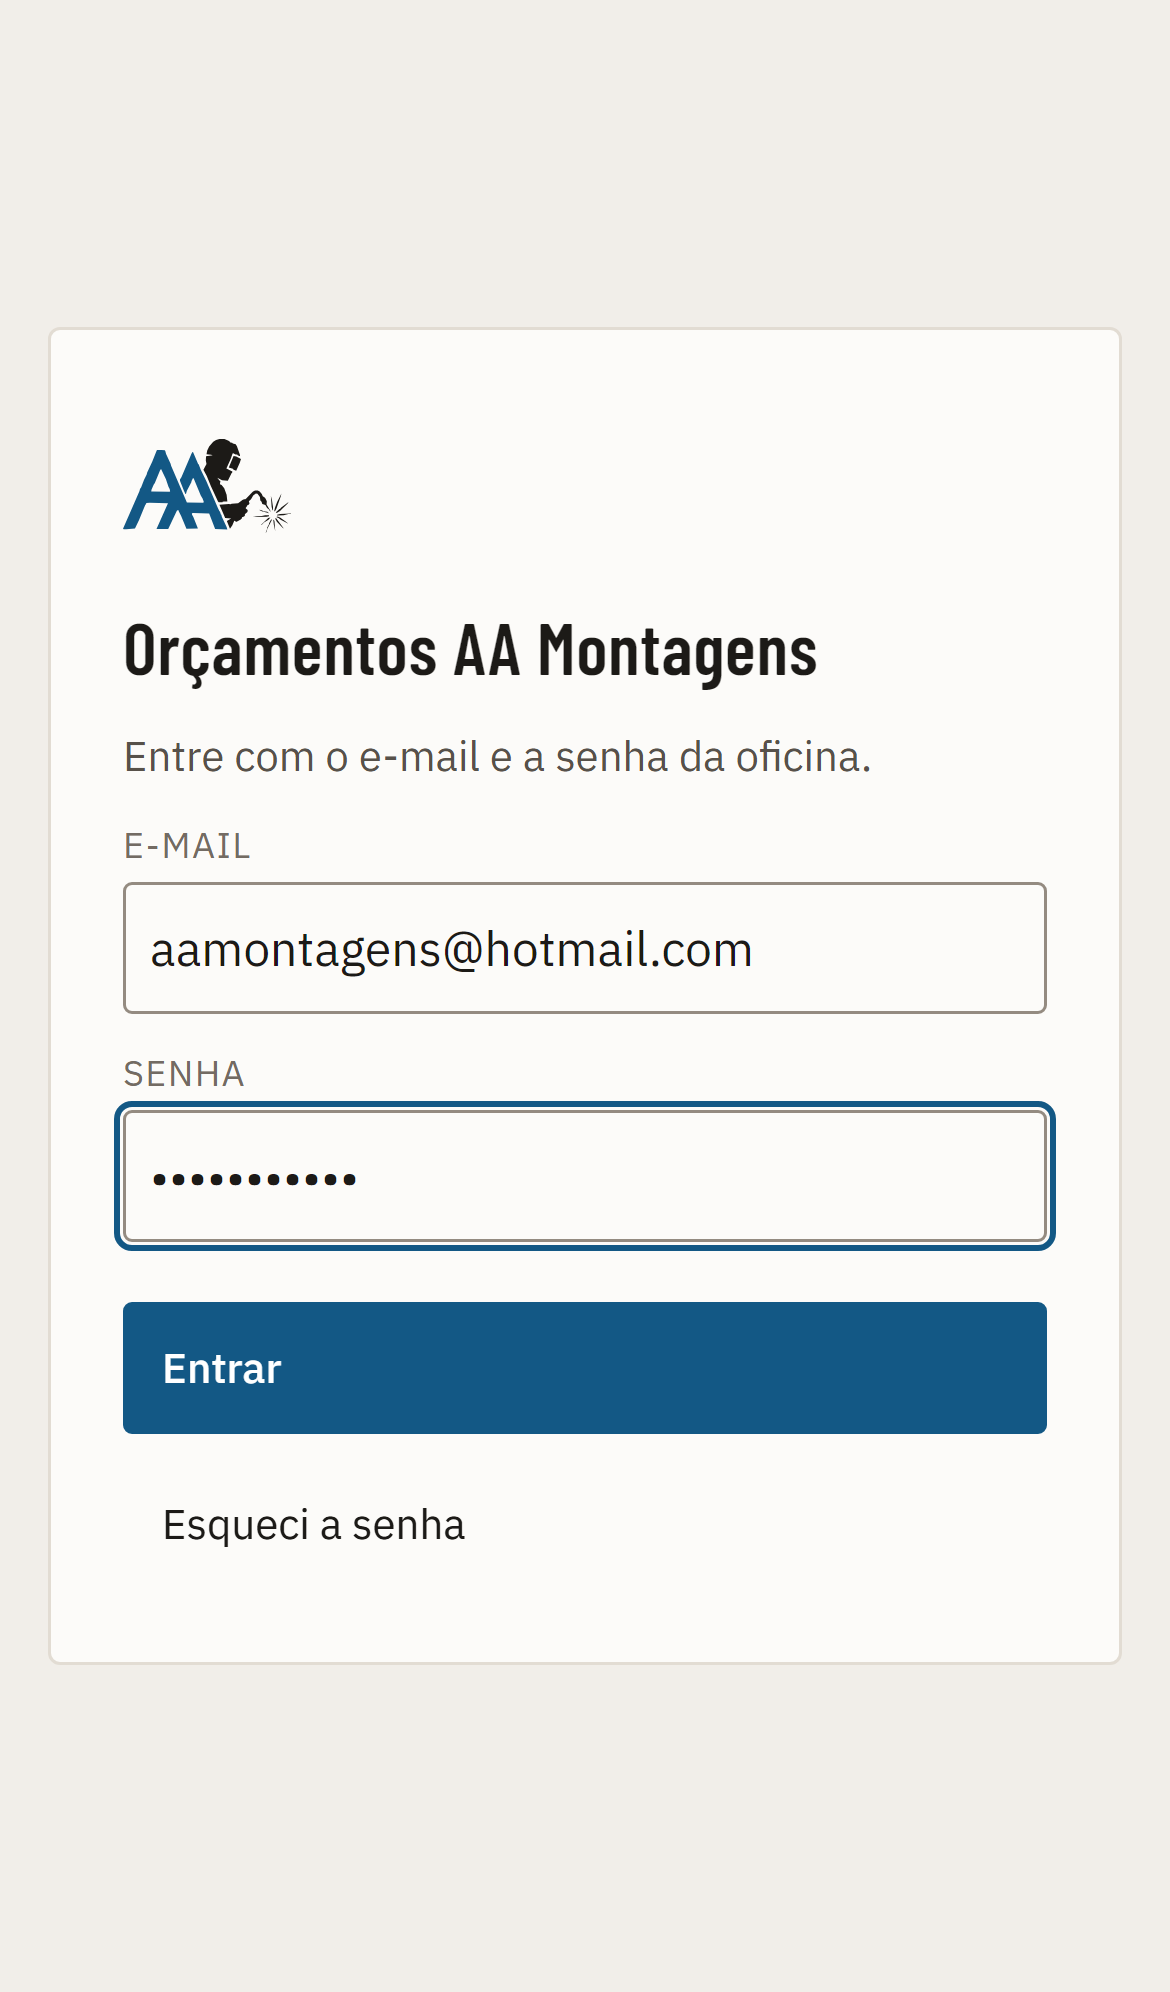
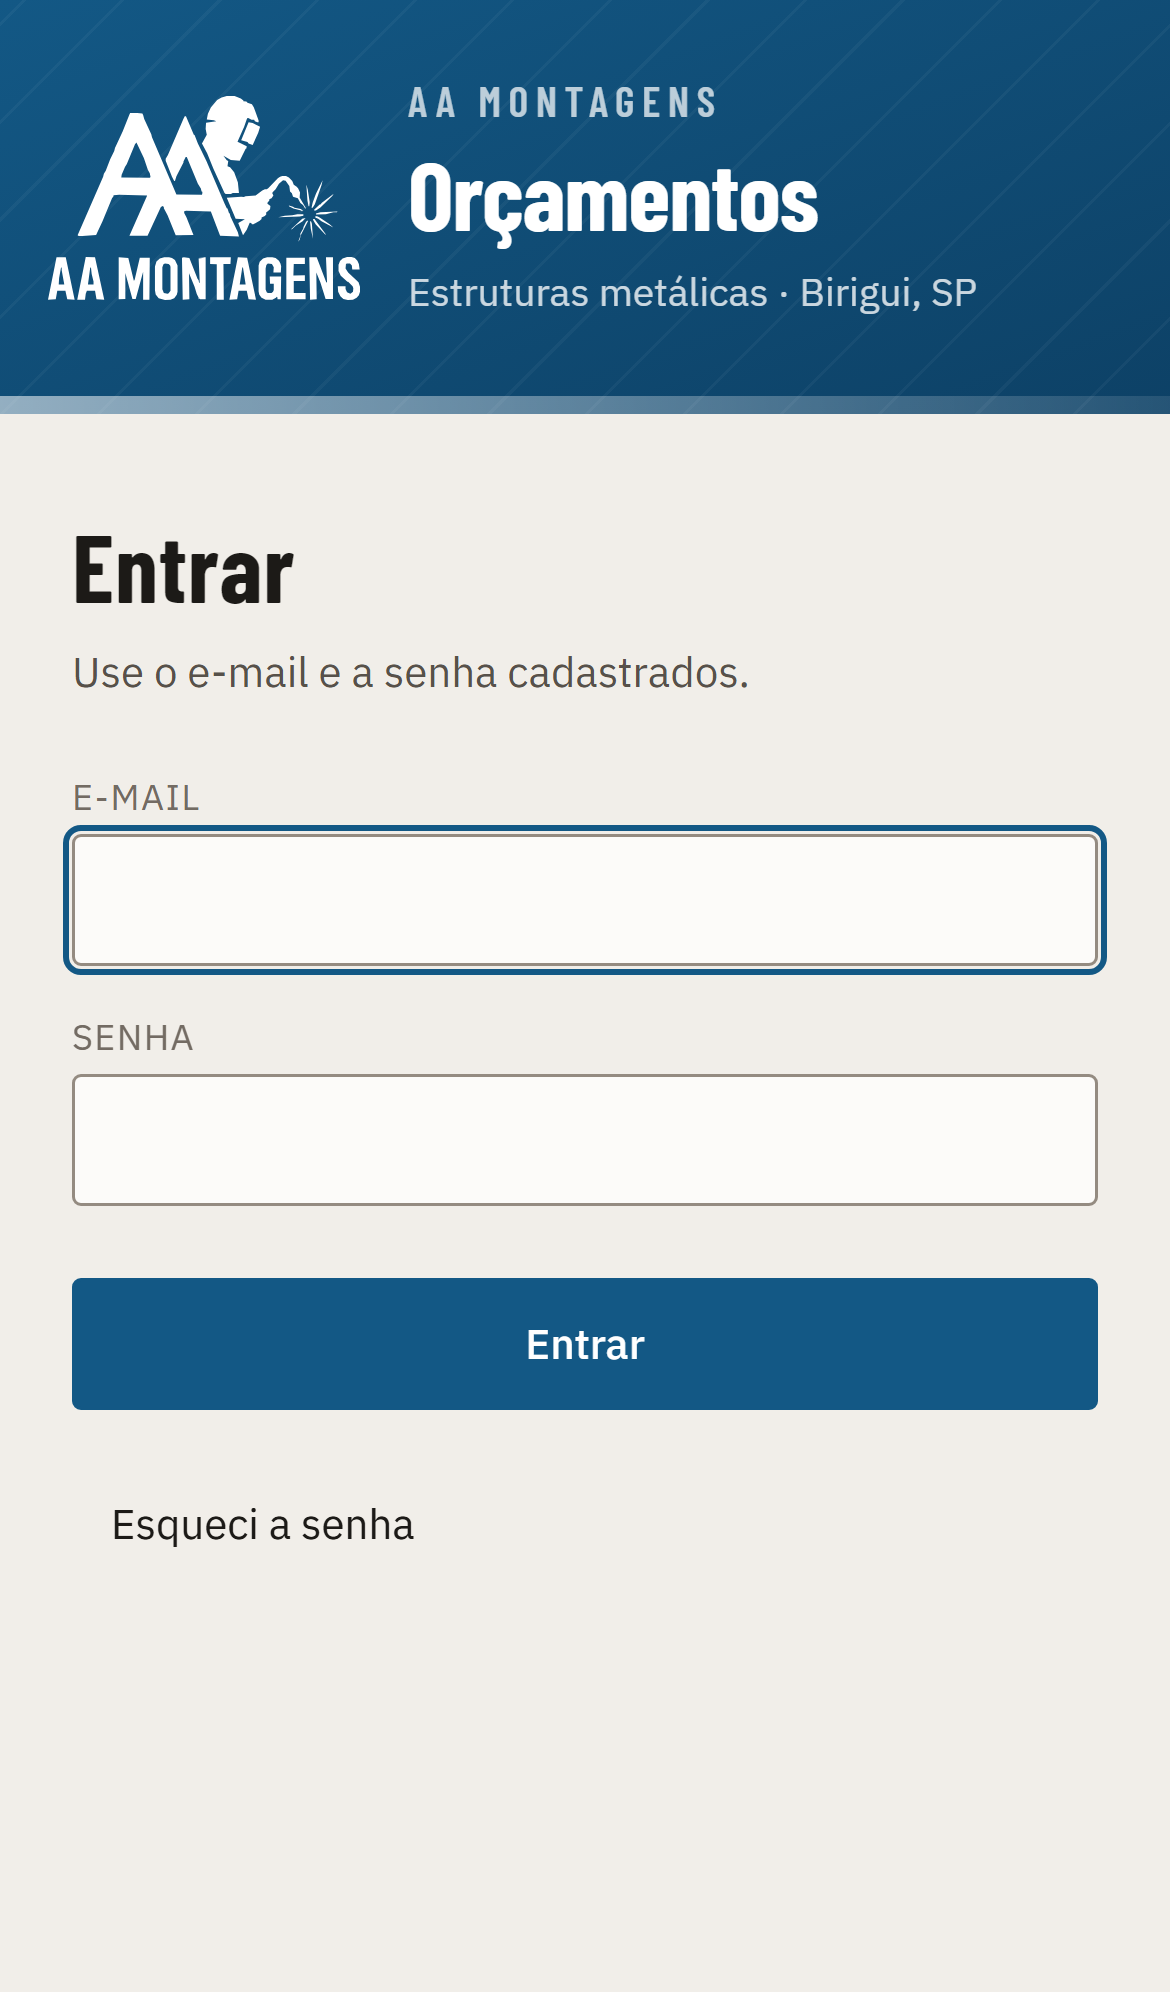
fix(vercel): rota ao recarregar; tela de login redesenhada
- `vercel.json` com o rewrite de toda rota para o index.html: a Vercel não
  lê o `_redirects`, e recarregar /orcamentos dava 404 NOT_FOUND.
- Tela de entrar em duas metades: a marca no azul da AA Montagens (logo mono
  em branco por máscara CSS, "Orçamentos" em Barlow Condensed, friso na base)
  e o formulário no papel, com campos e botão de 46 px. No celular a marca
  vira a faixa de cima. "da oficina" sai do texto.
- "Sem acesso" usa a mesma moldura (`MolduraEntrar`).
- Docs: Vercel em publicar.md (rewrite e domínios), domínio da Vercel na
  restrição da chave em nuvem.md; foto celular-entrar.png refeita.

Changed region(s): [[0.0, 0.0, 1.0, 0.3424], [0.0308, 0.3735, 0.9538, 0.7781]]

diff --git a/src/telas/entrar.css b/src/telas/entrar.css
@@ -1,32 +1,191 @@
-/* A tela de entrar: um cartão no meio, nada mais. */
+/* ---- a porta: marca no azul, formulário no papel ---- */
 .entrar {
   min-height: 100dvh;
   display: grid;
-  place-items: center;
-  padding: var(--e-4);
+  grid-template-columns: minmax(320px, 5fr) minmax(0, 7fr);
   background: var(--cor-fundo);
 }
 
-.entrar__cartao {
-  width: min(100%, 400px);
-  padding: var(--e-5);
+/* a metade da marca: azul da AA Montagens, com um trançado fino de fundo
+   (as linhas diagonais lembram chapa e treliça sem virar ilustração) */
+.entrar__marca {
+  position: relative;
+  display: flex;
+  flex-direction: column;
+  justify-content: space-between;
+  gap: var(--e-6);
+  padding: clamp(var(--e-5), 5vw, var(--e-8));
+  color: var(--cor-branco);
+  background:
+    repeating-linear-gradient(
+      -45deg,
+      rgb(255 255 255 / 0%) 0 22px,
+      rgb(255 255 255 / 4%) 22px 23px
+    ),
+    linear-gradient(160deg, var(--cor-acao) 0%, var(--cor-acao-forte) 100%);
+  overflow: hidden;
+}
+
+/* uma faixa clara na base, como um friso de aço */
+.entrar__marca::after {
+  content: '';
+  position: absolute;
+  left: 0;
+  right: 0;
+  bottom: 0;
+  height: 6px;
+  background: linear-gradient(90deg, rgb(255 255 255 / 55%), rgb(255 255 255 / 10%));
+}
+
+.entrar__logo {
+  width: min(240px, 60%);
+  aspect-ratio: 1000 / 651.2;
+  background: var(--cor-branco);
+  mask: var(--logo) no-repeat center / contain;
+  -webkit-mask: var(--logo) no-repeat center / contain;
+}
+
+.entrar__marca-texto {
+  display: grid;
+  gap: var(--e-1);
+}
+
+.entrar__sobrelinha {
+  margin: 0;
+  font-family: var(--fonte-display);
+  font-weight: 600;
+  font-size: var(--dsp-xs);
+  letter-spacing: 0.18em;
+  text-transform: uppercase;
+  color: rgb(255 255 255 / 72%);
+}
+
+.entrar__titulo-marca {
+  margin: 0;
+  font-family: var(--fonte-display);
+  font-weight: 700;
+  font-size: clamp(40px, 6vw, 64px);
+  line-height: 1;
+  letter-spacing: -0.01em;
+}
+
+.entrar__descricao {
+  margin: var(--e-2) 0 0;
+  font-size: var(--txt-md);
+  color: rgb(255 255 255 / 78%);
+}
+
+.entrar__rodape {
+  margin: 0;
+  font-family: var(--fonte-display);
+  font-size: var(--dsp-xs);
+  letter-spacing: 0.12em;
+  text-transform: uppercase;
+  color: rgb(255 255 255 / 55%);
+}
+
+/* a metade do formulário */
+.entrar__painel {
+  display: grid;
+  place-items: center;
+  padding: clamp(var(--e-5), 6vw, var(--e-8));
+}
+
+.entrar__form {
+  width: min(100%, 380px);
+  display: grid;
+  gap: var(--e-4);
+}
+
+.entrar__titulo {
+  margin: 0;
+  font-family: var(--fonte-display);
+  font-weight: 700;
+  font-size: var(--dsp-lg);
+  line-height: var(--lh-dsp-lg);
+}
+
+.entrar__nota {
+  margin: calc(-1 * var(--e-2)) 0 var(--e-2);
+  color: var(--cor-tinta-media);
+}
+
+/* campos mais altos que os da grade: aqui é dedo, não teclado em série */
+.entrar__campo {
+  height: 46px;
+  padding: 0 var(--e-3);
+  font-size: var(--txt-lg);
+  background: var(--cor-papel);
+}
+
+.entrar__botao {
+  height: 46px;
+  margin-top: var(--e-2);
+  font-size: var(--txt-lg);
+  justify-content: center;
+}
+
+.entrar__form .entrar__esqueci {
+  justify-self: start;
+  padding: 0;
+  color: var(--cor-acao);
+}
+
+/* sem acesso: o mesmo painel, com o aviso no lugar do formulário */
+.entrar__aviso {
+  width: min(100%, 420px);
   display: grid;
   gap: var(--e-3);
 }
 
-.entrar__logo {
-  width: 56px;
-  height: 56px;
-}
-
-.entrar__nota {
-  color: var(--cor-tinta-media);
+.entrar__aviso h1 {
   margin: 0;
+  font-family: var(--fonte-display);
+  font-weight: 700;
+  font-size: var(--dsp-lg);
+  line-height: var(--lh-dsp-lg);
 }
 
-.entrar__acoes {
-  display: flex;
-  flex-direction: column;
-  gap: var(--e-2);
-  margin-top: var(--e-2);
+.entrar__aviso p {
+  margin: 0;
+  color: var(--cor-tinta-media);
+}
+
+/* ---- celular: a marca vira a faixa de cima ---- */
+@media (max-width: 720px) {
+  .entrar {
+    grid-template-columns: 1fr;
+    grid-template-rows: auto 1fr;
+  }
+
+  .entrar__marca {
+    flex-direction: row;
+    align-items: center;
+    justify-content: flex-start;
+    gap: var(--e-4);
+    padding: var(--e-5) var(--e-4) calc(var(--e-5) + 6px);
+  }
+
+  .entrar__logo {
+    width: 104px;
+    flex: 0 0 auto;
+  }
+
+  .entrar__titulo-marca {
+    font-size: var(--dsp-lg);
+  }
+
+  .entrar__descricao {
+    margin-top: var(--e-1);
+    font-size: var(--txt-sm);
+  }
+
+  .entrar__rodape {
+    display: none;
+  }
+
+  .entrar__painel {
+    align-items: start;
+    padding-top: var(--e-6);
+  }
 }

diff --git a/src/telas/Entrar.tsx b/src/telas/Entrar.tsx
@@ -3,11 +3,36 @@
  *
  * E-mail + senha (spec §2): funciona no navegador e no app instalado na tela
  * de inicio do celular, onde login por janela/redirecionamento falha.
+ *
+ * Duas metades: a marca, no azul da AA Montagens, e o formulario, no papel.
+ * No celular a marca vira a faixa de cima. `MolduraEntrar` e compartilhada
+ * com a tela de "sem acesso", para as duas serem a mesma porta.
  */
-import { useState } from 'react';
+import { useState, type ReactNode } from 'react';
 import { entrar, mensagemDoErro, pedirNovaSenha } from '../dados/sessao';
 import './formulario.css';
 import './entrar.css';
+
+export function MolduraEntrar({ children }: { children: ReactNode }) {
+  return (
+    <div className="entrar">
+      <aside className="entrar__marca" aria-hidden="true">
+        {/* mascara CSS, e nao <img>: a logo mono usa currentColor, que <img> nao herda */}
+        <div
+          className="entrar__logo"
+          style={{ ['--logo' as string]: `url(${import.meta.env.BASE_URL}logo-mono.svg)` }}
+        />
+        <div className="entrar__marca-texto">
+          <p className="entrar__sobrelinha">AA Montagens</p>
+          <p className="entrar__titulo-marca">Orçamentos</p>
+          <p className="entrar__descricao">Estruturas metálicas · Birigui, SP</p>
+        </div>
+        <p className="entrar__rodape">Sistema interno · acesso restrito</p>
+      </aside>
+      <main className="entrar__painel">{children}</main>
+    </div>
+  );
+}
 
 export function Entrar() {
   const [email, setEmail] = useState('');
@@ -48,22 +73,21 @@ export function Entrar() {
   }
 
   return (
-    <div className="entrar">
+    <MolduraEntrar>
       <form
-        className="entrar__cartao painel"
+        className="entrar__form"
         onSubmit={(ev) => {
           ev.preventDefault();
           void enviar();
         }}
       >
-        <img className="entrar__logo" src={`${import.meta.env.BASE_URL}logo-simbolo.svg`} alt="" />
-        <h1>Orçamentos AA Montagens</h1>
-        <p className="entrar__nota">Entre com o e-mail e a senha da oficina.</p>
+        <h1 className="entrar__titulo">Entrar</h1>
+        <p className="entrar__nota">Use o e-mail e a senha cadastrados.</p>
 
         <label className="campo-envolve">
           <span className="rotulo">E-mail</span>
           <input
-            className="campo"
+            className="campo entrar__campo"
             type="email"
             autoComplete="username"
             inputMode="email"
@@ -75,7 +99,7 @@ export function Entrar() {
         <label className="campo-envolve">
           <span className="rotulo">Senha</span>
           <input
-            className="campo"
+            className="campo entrar__campo"
             type="password"
             autoComplete="current-password"
             value={senha}
@@ -94,20 +118,18 @@ export function Entrar() {
           </p>
         )}
 
-        <div className="entrar__acoes">
-          <button type="submit" className="botao botao--primario" disabled={ocupado}>
-            {ocupado ? 'Entrando…' : 'Entrar'}
-          </button>
-          <button
-            type="button"
-            className="botao botao--texto"
-            disabled={ocupado}
-            onClick={() => void esqueci()}
-          >
-            Esqueci a senha
-          </button>
-        </div>
+        <button type="submit" className="botao botao--primario entrar__botao" disabled={ocupado}>
+          {ocupado ? 'Entrando…' : 'Entrar'}
+        </button>
+        <button
+          type="button"
+          className="botao botao--texto entrar__esqueci"
+          disabled={ocupado}
+          onClick={() => void esqueci()}
+        >
+          Esqueci a senha
+        </button>
       </form>
-    </div>
+    </MolduraEntrar>
   );
 }

diff --git a/src/telas/SemAcesso.tsx b/src/telas/SemAcesso.tsx
@@ -1,20 +1,22 @@
 import { sair } from '../dados/sessao';
-import './entrar.css';
+import { MolduraEntrar } from './Entrar';
 
 /** Autenticou, mas as regras do servidor recusaram: e-mail fora da lista. */
 export function SemAcesso({ email }: { email: string }) {
   return (
-    <div className="entrar">
-      <div className="entrar__cartao painel" role="alert">
+    <MolduraEntrar>
+      <div className="entrar__aviso" role="alert">
         <h1>Esta conta não tem acesso</h1>
         <p>
           <strong>{email}</strong> entrou, mas não está na lista de quem pode usar o app da AA
           Montagens. Se for engano, fale com quem administra o sistema.
         </p>
-        <button type="button" className="botao" onClick={() => void sair()}>
-          Sair e entrar com outra conta
-        </button>
+        <div>
+          <button type="button" className="botao" onClick={() => void sair()}>
+            Sair e entrar com outra conta
+          </button>
+        </div>
       </div>
-    </div>
+    </MolduraEntrar>
   );
 }

diff --git a/docs/publicar.md b/docs/publicar.md
@@ -38,6 +38,10 @@ Se isso for aceitável, publicar aberto é defensável. Se não for, siga para a
 
 Qualquer hospedagem de arquivos estáticos serve. `npm run build` gera a pasta `dist/`, e é ela inteira que sobe.
 
+### Vercel
+
+Funciona igual (arquivos estáticos), com um detalhe obrigatório: o `vercel.json` na raiz tem a regra de _rewrite_ que manda toda rota para o `index.html` — sem ela, recarregar `/orcamentos` dá **404 NOT_FOUND** da Vercel, porque a rota só existe no navegador. O `_redirects` é sintaxe da Netlify/Cloudflare; a Vercel não lê. Base `/` (sem `BASE_PATH`). Depois de publicar, acrescente o domínio (`aamontagens.vercel.app`) em _Authentication → Configurações → Domínios autorizados_ no Firebase e na restrição da chave (`nuvem.md` §6).
+
 ### GitHub Pages (onde está hoje — sem controle de acesso)
 
 `.github/workflows/publicar.yml` publica sozinho a cada push na `main`: instala, copia as fontes, roda typecheck, lint e testes, faz o build no subcaminho do repositório e sobe para o Pages. Falhou um teste, não publica.

diff --git a/docs/nuvem.md b/docs/nuvem.md
@@ -86,6 +86,7 @@ Por garantia, antes da troca: **Configurações → Backup → Exportar backup**
 No Google Cloud (mesmo projeto): _APIs e serviços → Credenciais → "Browser key (auto created by Firebase)"_ → _Restrições de aplicativo: Sites_ → adicionar:
 
 - `alexandreandradesilva.github.io/*`
+- `aamontagens.vercel.app/*` (se o site estiver na Vercel)
 - `localhost:5173/*` e `localhost:4173/*` (desenvolvimento)
 
 Sem isso, a chave funciona de qualquer site — não dá acesso aos dados (as regras seguram), mas permite gastar a cota do projeto.
